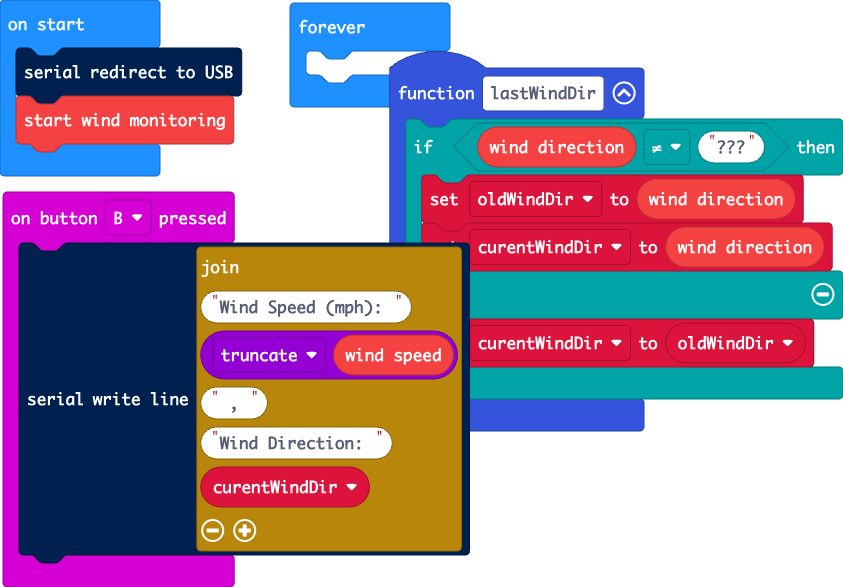
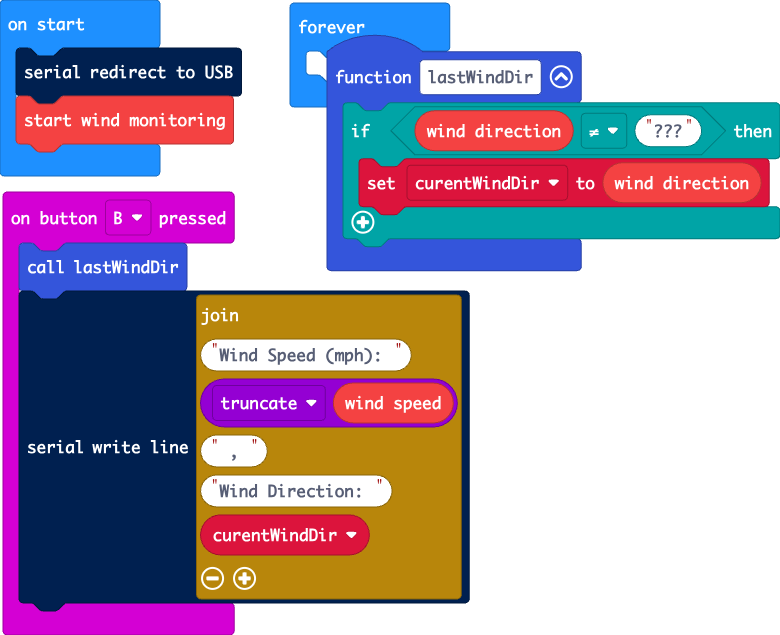
Update main.blocks, main.ts

diff --git a/main.ts b/main.ts
@@ -1,16 +1,13 @@
 function lastWindDir () {
     if (weatherbit.windDirection() != "???") {
-        oldWindDir = weatherbit.windDirection()
         curentWindDir = weatherbit.windDirection()
-    } else {
-        curentWindDir = oldWindDir
     }
 }
 input.onButtonPressed(Button.B, function () {
+    lastWindDir()
     serial.writeLine("Wind Speed (mph): " + Math.trunc(weatherbit.windSpeed()) + " , " + "Wind Direction: " + curentWindDir)
 })
 let curentWindDir = ""
-let oldWindDir = ""
 serial.redirectToUSB()
 weatherbit.startWindMonitoring()
 basic.forever(function () {
